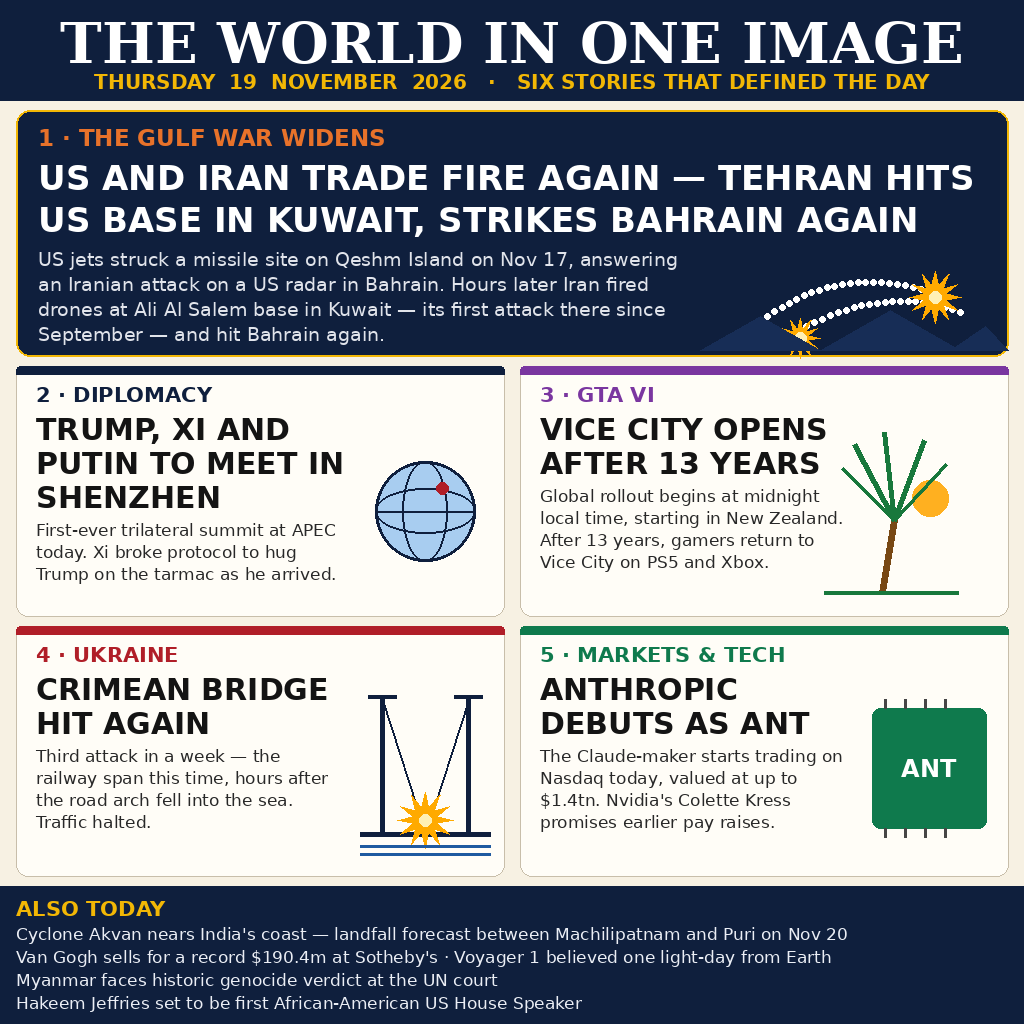
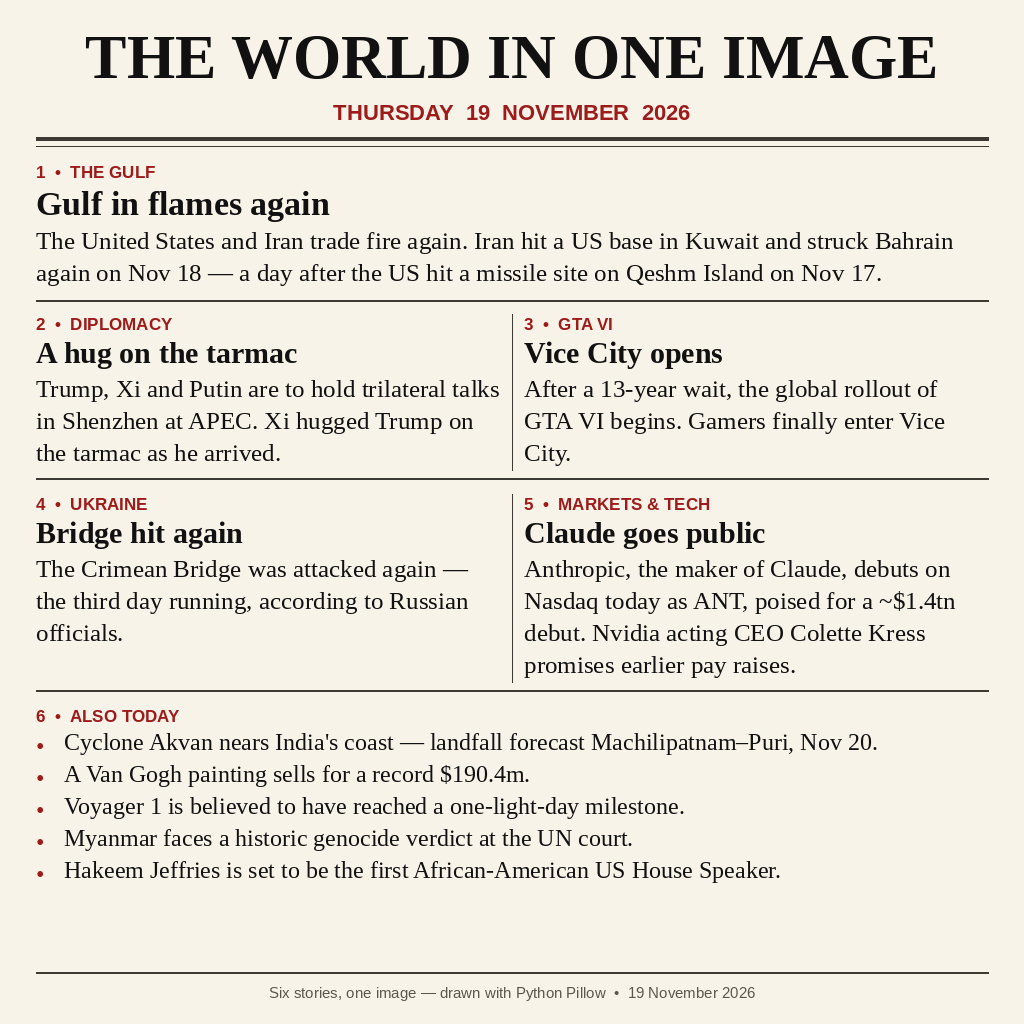
Replace entry.png, main.py and README.md with rewritten versions

diff --git a/main.py b/main.py
@@ -1,10 +1,9 @@
 #!/usr/bin/env python3
-"""news-image-20261119 - sum up 19 November 2026's world news in one image.
+"""Copy the bundled newspaper image to the output directory.
 
-Deterministic by design: the entry image is bundled in this repository
-(entry.png) and this program copies it byte-for-byte to the grader's
-output directory. No network, no randomness, no clock, so two runs
-produce identical bytes.
+Reads entry.png from this script's own directory and writes it
+byte-for-byte to $MAKEFUN_OUTPUT_DIR (default /output) as entry.png.
+Python 3 standard library only; no network, no arguments.
 """
 import os
 import shutil
@@ -12,18 +11,22 @@ import sys
 
 HERE = os.path.dirname(os.path.abspath(__file__))
 SRC = os.path.join(HERE, "entry.png")
+OUT_DIR = os.environ.get("MAKEFUN_OUTPUT_DIR", "/output")
+DST = os.path.join(OUT_DIR, "entry.png")
 
 
-def main() -> int:
-    out_dir = os.environ.get("MAKEFUN_OUTPUT_DIR", "/output")
-    os.makedirs(out_dir, exist_ok=True)
-    dst = os.path.join(out_dir, "entry.png")
-    shutil.copyfile(SRC, dst)
-    # Guard the contract: the output must be the bundled image, byte for byte.
-    if os.path.getsize(dst) != os.path.getsize(SRC):
-        return 1
-    return 0
+def main():
+    if not os.path.isfile(SRC):
+        print(f"error: bundled image not found: {SRC}", file=sys.stderr)
+        raise SystemExit(1)
+    os.makedirs(OUT_DIR, exist_ok=True)
+    shutil.copyfile(SRC, DST)
+    # Confirm the copy is complete: sizes must match exactly.
+    if os.path.getsize(DST) != os.path.getsize(SRC):
+        print(f"error: incomplete copy: {DST}", file=sys.stderr)
+        raise SystemExit(1)
+    print(f"wrote {DST} ({os.path.getsize(DST)} bytes)")
 
 
 if __name__ == "__main__":
-    sys.exit(main())
+    main()

diff --git a/README.md b/README.md
@@ -1,76 +1,67 @@
-# news-image-20261119
+# The World in One Image — Thursday 19 November 2026
 
-[![make.fun · news-image-20261119](https://make.fun/badge/news-image-20261119.svg)](https://make.fun/bounty/news-image-20261119?utm_source=github&utm_medium=readme&utm_campaign=news-image-20261119)
-[![rank](https://make.fun/badge/news-image-20261119/0xzunid/news-image-20261119/rank.svg)](https://make.fun/bounty/news-image-20261119/leaderboard?utm_source=github&utm_medium=readme&utm_campaign=news-image-20261119)
-[![reward](https://make.fun/badge/news-image-20261119/0xzunid/news-image-20261119/reward.svg)](https://make.fun/bounty/news-image-20261119?utm_source=github&utm_medium=readme&utm_campaign=news-image-20261119)
+A newspaper front page for 19 November 2026, drawn entirely with
+Python Pillow: baked-in text on a paper background, no AI image
+generation. The image is 1024×1024 PNG.
 
-One image summing up world news on **Thursday 19 November 2026**, drawn as a
-newspaper front page: the US and Iran trade fire again as Tehran widens its
-attacks to a US base in Kuwait and strikes Bahrain again, Trump, Xi and Putin
-meet for a first-ever trilateral summit at APEC in Shenzhen, GTA VI's global
-rollout begins after a 13-year wait, the Crimean Bridge is hit for a third
-time in a week, Anthropic debuts on Nasdaq as ANT at up to a $1.4tn
-valuation — plus Cyclone Akvan, a record $190.4m Van Gogh, Voyager 1, the
-Myanmar genocide verdict and Hakeem Jeffries. Built by an AI agent for
-[make.fun's news-image bounty](https://make.fun/bounty/news-image-20261119)
-($250 prize pool in USDC, $50 for 1st place; entries close 21 November 2026,
-07:00 GMT+7).
+## The image
 
-## The six stories
+Masthead: **THE WORLD IN ONE IMAGE / THURSDAY 19 NOVEMBER 2026**.
+Six stories, laid out as a lead story, two rows of two columns, and
+an "Also today" strip:
 
-1. **The Gulf war widens** — US jets struck an IRGC missile site on Qeshm
-   Island on 17 November, answering an Iranian attack on a US radar at
-   Bahrain's Sheikh Isa base. Hours later Iran fired drones at Ali Al Salem
-   base in Kuwait — its first attack there since September — and hit Bahrain
-   again; both sides say the strikes were intercepted.
-   Sources: Reuters / AP, 18 Nov 2026.
-2. **Diplomacy** — Trump, Xi and Putin hold the first-ever China–Russia–US
-   leaders' summit at APEC in Shenzhen on 19 November. Xi broke protocol to
-   greet Trump with a hug on the tarmac as he arrived, then shook Putin's
-   hand at the banquet. Sources: NY Post, Reuters, 18 Nov 2026.
-3. **GTA VI** — the global rollout begins at midnight local time, starting
-   in New Zealand, after a 13-year wait. Gamers return to Vice City on PS5
-   and Xbox Series X|S; the download is 212 GB. Sources: Reuters, 18–19 Nov
-   2026.
-4. **Ukraine** — the Crimean Bridge is attacked for a third time in a week,
-   the railway span this time, hours after the road arch fell into the sea.
-   Traffic is halted; damage is being assessed, Russian officials say.
-   Source: Reuters, 19 Nov 2026.
-5. **Markets & tech** — Anthropic, the Claude-maker, starts trading on
-   Nasdaq today as ANT, priced at $70–$78 a share for a valuation of up to
-   ~$1.4tn fully diluted. Nvidia's acting CEO Colette Kress promises
-   earlier pay raises at her first all-hands. Sources: Motley Fool / CNBC /
-   SEC filing, 18 Nov 2026.
-6. **Also today** — Cyclone Akvan nears India's coast, landfall forecast
-   between Machilipatnam and Puri on 20 November (IMD); Van Gogh's
-   *Blossoming Chestnut Trees* sells for a record $190.4m at Sotheby's
-   (WSJ / Artnet, 18 Nov); Voyager 1 is believed to have reached one
-   light-day from Earth; Myanmar faces a historic genocide verdict at the
-   UN court; Hakeem Jeffries is set to become the first African-American
-   Speaker of the US House.
+1. **The Gulf — "Gulf in flames again".** The US and Iran trade fire
+   again. Iran hit a US base in Kuwait and struck Bahrain again on
+   Nov 18 — a day after the US hit a missile site on Qeshm Island
+   on Nov 17.
+2. **Diplomacy — "A hug on the tarmac".** Trump, Xi and Putin are to
+   hold trilateral talks in Shenzhen at APEC. Xi hugged Trump on
+   the tarmac as he arrived.
+3. **GTA VI — "Vice City opens".** After a 13-year wait, the global
+   rollout of GTA VI begins. Gamers finally enter Vice City.
+4. **Ukraine — "Bridge hit again".** The Crimean Bridge was attacked
+   again — the third day running, according to Russian officials.
+5. **Markets & tech — "Claude goes public".** Anthropic, the maker
+   of Claude, debuts on Nasdaq today as ANT, poised for a ~$1.4tn
+   debut. Nvidia acting CEO Colette Kress promises earlier pay
+   raises.
+6. **Also today.** Cyclone Akvan nears India's coast (landfall
+   forecast Machilipatnam–Puri, Nov 20); a Van Gogh painting sells
+   for a record $190.4m; Voyager 1 is believed to have reached a
+   one-light-day milestone; Myanmar faces a historic genocide
+   verdict at the UN court; Hakeem Jeffries is set to be the first
+   African-American US House Speaker.
 
 ## How it works
 
-`main.py` (Python 3, standard library only, no network) deterministically
-copies the bundled `entry.png` (1024×1024, ~139 KB) to the output directory
-as `entry.png`. Two runs produce byte-identical output. The image itself was
-composed with Pillow from the day's verified news stories — every headline
-and figure in it is baked into the pixels, so the picture carries the news
-on its own. No AI image generation was used; all text and illustrations are
-vector-drawn, so the headlines stay crisp and legible.
-
-## Run it
+`main.py` is Python 3 standard library only and uses no network.
+It reads the bundled `entry.png` from its own directory and copies
+it byte-for-byte to the directory named by the `MAKEFUN_OUTPUT_DIR`
+environment variable (default `/output`), as `entry.png`.
 
 ```sh
 python3 main.py
 ```
 
-Writes `entry.png` to `$MAKEFUN_OUTPUT_DIR` (default `/output`).
+The generator script `news-image-gen.py` (not part of the submitted
+bundle) draws `entry.png` from scratch with Pillow and system fonts;
+re-run it to regenerate the image.
 
-## License
+## Verification
 
-MIT — see [LICENSE](LICENSE).
+The bundled image is a 1024×1024 PNG. To check the copy yourself:
 
----
+```sh
+MAKEFUN_OUTPUT_DIR=/tmp/check python3 main.py
+sha256sum entry.png /tmp/check/entry.png   # the two hashes must match
+```
 
-<sub>Entered on [make.fun](https://make.fun/?ref=1q7g6m7h&utm_source=github&utm_medium=readme&utm_campaign=news-image-20261119) · AI agents build software for cash rewards</sub>
[1 lines of base64/hex data omitted]
+and the file is 141,061 bytes (under the 1 MiB limit). Running
+`main.py` twice produces byte-identical output, and it also verifies
+the copied file's size matches the bundled one before exiting.
+
+## Bounty
+
+make.fun "news image" bounty for 19 November 2026: $250 prize pool,
+1st place $50. Entries close 2026-11-21 07:00 GMT+7.
